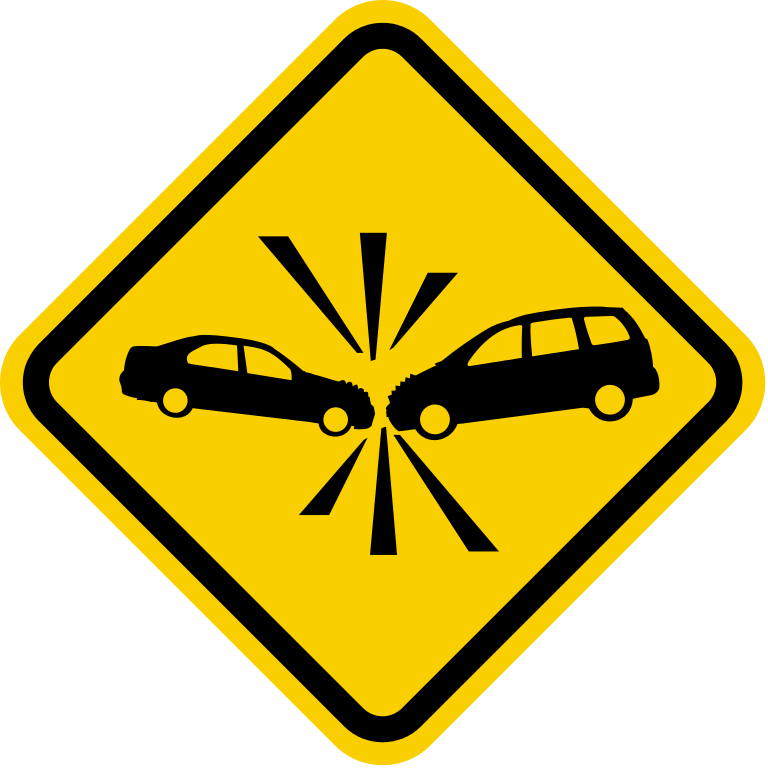
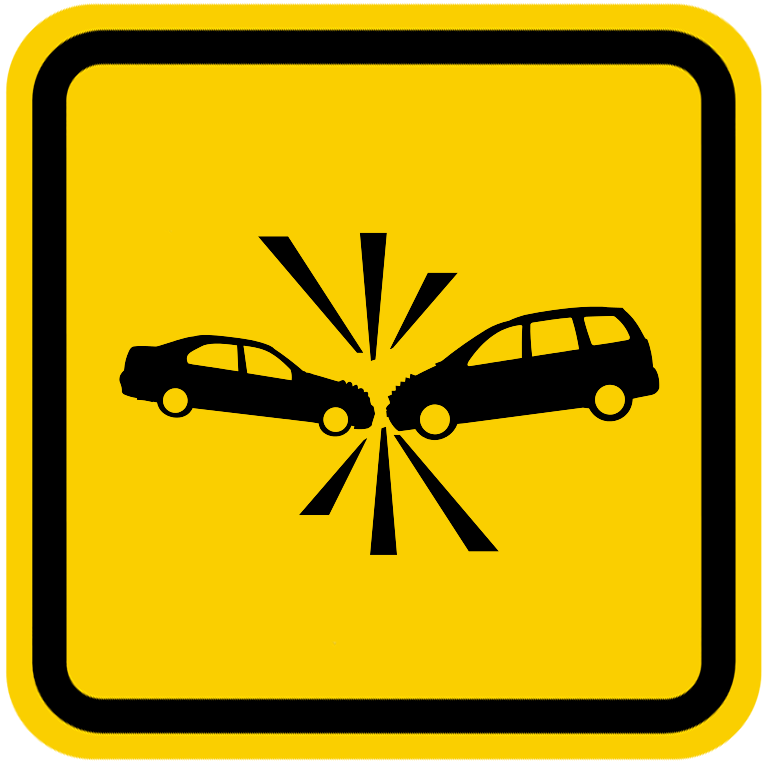
final final

diff --git a/src/vista/PanelAnimacionMapa.java b/src/vista/PanelAnimacionMapa.java
@@ -120,10 +120,10 @@ public class PanelAnimacionMapa extends javax.swing.JPanel implements MouseMotio
                         g.drawImage(frame.getCalles().get(matrizCuadriculaMapaIdCalles[j][i]).getImagen().getImage(), frame.getCalles().get(matrizCuadriculaMapaIdCalles[j][i]).getX(), frame.getCalles().get(matrizCuadriculaMapaIdCalles[j][i]).getY(), frame.getCalles().get(matrizCuadriculaMapaIdCalles[j][i]).getAncho(), frame.getCalles().get(matrizCuadriculaMapaIdCalles[j][i]).getAlto(), this);
                         for (int k = 0; k < frame.getCalles().get(matrizCuadriculaMapaIdCalles[j][i]).getListaDeNodosEnCalle().size(); k++) {
                             g.drawOval(frame.getCalles().get(matrizCuadriculaMapaIdCalles[j][i]).getListaDeNodosEnCalle().get(k).getX(), frame.getCalles().get(matrizCuadriculaMapaIdCalles[j][i]).getListaDeNodosEnCalle().get(k).getY(), frame.getCalles().get(matrizCuadriculaMapaIdCalles[j][i]).getListaDeNodosEnCalle().get(k).getAncho(), frame.getCalles().get(matrizCuadriculaMapaIdCalles[j][i]).getListaDeNodosEnCalle().get(k).getAlto());
-                            g.drawString(frame.getCalles().get(matrizCuadriculaMapaIdCalles[j][i]).getListaDeNodosEnCalle().get(k).getId() + "", frame.getCalles().get(matrizCuadriculaMapaIdCalles[j][i]).getListaDeNodosEnCalle().get(k).getX(), frame.getCalles().get(matrizCuadriculaMapaIdCalles[j][i]).getListaDeNodosEnCalle().get(k).getY());
+                          //  g.drawString(frame.getCalles().get(matrizCuadriculaMapaIdCalles[j][i]).getListaDeNodosEnCalle().get(k).getId() + "", frame.getCalles().get(matrizCuadriculaMapaIdCalles[j][i]).getListaDeNodosEnCalle().get(k).getX(), frame.getCalles().get(matrizCuadriculaMapaIdCalles[j][i]).getListaDeNodosEnCalle().get(k).getY());
                         }
                         if (frame.getCalles().get(matrizCuadriculaMapaIdCalles[j][i]).getSuceso() != null) {
-                            g.drawImage(frame.getCalles().get(matrizCuadriculaMapaIdCalles[j][i]).getSuceso().getImagen().getImage(), frame.getCalles().get(matrizCuadriculaMapaIdCalles[j][i]).getSuceso().getX(), frame.getCalles().get(matrizCuadriculaMapaIdCalles[j][i]).getSuceso().getY(), frame.getCalles().get(matrizCuadriculaMapaIdCalles[j][i]).getSuceso().getAncho(), frame.getCalles().get(matrizCuadriculaMapaIdCalles[j][i]).getSuceso().getAlto(), this);
+                            g.drawImage(frame.getCalles().get(matrizCuadriculaMapaIdCalles[j][i]).getSuceso().getImagen().getImage(), frame.getCalles().get(matrizCuadriculaMapaIdCalles[j][i]).getSuceso().getX()+10, frame.getCalles().get(matrizCuadriculaMapaIdCalles[j][i]).getSuceso().getY()+10, frame.getCalles().get(matrizCuadriculaMapaIdCalles[j][i]).getSuceso().getAncho(), frame.getCalles().get(matrizCuadriculaMapaIdCalles[j][i]).getSuceso().getAlto(), this);
                         }
                     }
                     if (matrizCuadriculaMapaIdArboles[j][i] != -1) {

diff --git a/src/vista/FormularioParaAnimacionCarro.java b/src/vista/FormularioParaAnimacionCarro.java
@@ -207,14 +207,14 @@ public class FormularioParaAnimacionCarro extends javax.swing.JFrame {
 
         jPanel3.setPreferredSize(new java.awt.Dimension(76, 1500));
 
-        jRadioButton17.setIcon(new javax.swing.ImageIcon(getClass().getResource("/imagenes/AccionesEnCalle/Accidente.png"))); // NOI18N
+        jRadioButton17.setIcon(new javax.swing.ImageIcon(getClass().getResource("/imagenes/AccionesEnCalle/Accidente2.png"))); // NOI18N
         jRadioButton17.addActionListener(new java.awt.event.ActionListener() {
             public void actionPerformed(java.awt.event.ActionEvent evt) {
                 jRadioButton17ActionPerformed(evt);
             }
         });
 
-        jRadioButton18.setIcon(new javax.swing.ImageIcon(getClass().getResource("/imagenes/AccionesEnCalle/ConstruccionPequeño.png"))); // NOI18N
+        jRadioButton18.setIcon(new javax.swing.ImageIcon(getClass().getResource("/imagenes/AccionesEnCalle/Construccion2.png"))); // NOI18N
         jRadioButton18.addActionListener(new java.awt.event.ActionListener() {
             public void actionPerformed(java.awt.event.ActionEvent evt) {
                 jRadioButton18ActionPerformed(evt);
@@ -230,7 +230,7 @@ public class FormularioParaAnimacionCarro extends javax.swing.JFrame {
                 .addComponent(jRadioButton17)
                 .addPreferredGap(javax.swing.LayoutStyle.ComponentPlacement.UNRELATED)
                 .addComponent(jRadioButton18)
-                .addContainerGap(javax.swing.GroupLayout.DEFAULT_SIZE, Short.MAX_VALUE))
+                .addContainerGap(38, Short.MAX_VALUE))
         );
         jPanel3Layout.setVerticalGroup(
             jPanel3Layout.createParallelGroup(javax.swing.GroupLayout.Alignment.LEADING)
@@ -239,7 +239,7 @@ public class FormularioParaAnimacionCarro extends javax.swing.JFrame {
                 .addGroup(jPanel3Layout.createParallelGroup(javax.swing.GroupLayout.Alignment.LEADING)
                     .addComponent(jRadioButton17)
                     .addComponent(jRadioButton18))
-                .addContainerGap(javax.swing.GroupLayout.DEFAULT_SIZE, Short.MAX_VALUE))
+                .addContainerGap(23, Short.MAX_VALUE))
         );
 
         jButton2.setText("ELIMINAR SUCESO");

diff --git a/src/vista/FrameCrearMapa.java b/src/vista/FrameCrearMapa.java
@@ -796,8 +796,8 @@ public class FrameCrearMapa extends javax.swing.JFrame {
                         aristasGrafoMapa.add(arista);
                     }
                     if (matrizCopia[j + 1][i].equals("XX") || matrizCopia[j + 1][i].equals("xx")) {
-                        int idNodoA = calles.get(panelCrearMapa1.getMatrizCuadriculaMapaIdCalles()[j][i]).getListaDeNodosEnCalle().get(3).getId();
-                        int idNodoB = calles.get(panelCrearMapa1.getMatrizCuadriculaMapaIdCalles()[j + 1][i]).getListaDeNodosEnCalle().get(3).getId();
+                        int idNodoA = calles.get(panelCrearMapa1.getMatrizCuadriculaMapaIdCalles()[j][i]).getListaDeNodosEnCalle().get(0).getId();
+                        int idNodoB = calles.get(panelCrearMapa1.getMatrizCuadriculaMapaIdCalles()[j + 1][i]).getListaDeNodosEnCalle().get(2).getId();
                         AristaGrafoMapa arista = new AristaGrafoMapa(listaNodosMapa.get(idNodoA), calles.get(panelCrearMapa1.getMatrizCuadriculaMapaIdCalles()[j][i]), listaNodosMapa.get(idNodoB));
                         aristasGrafoMapa.add(arista);
                     }
